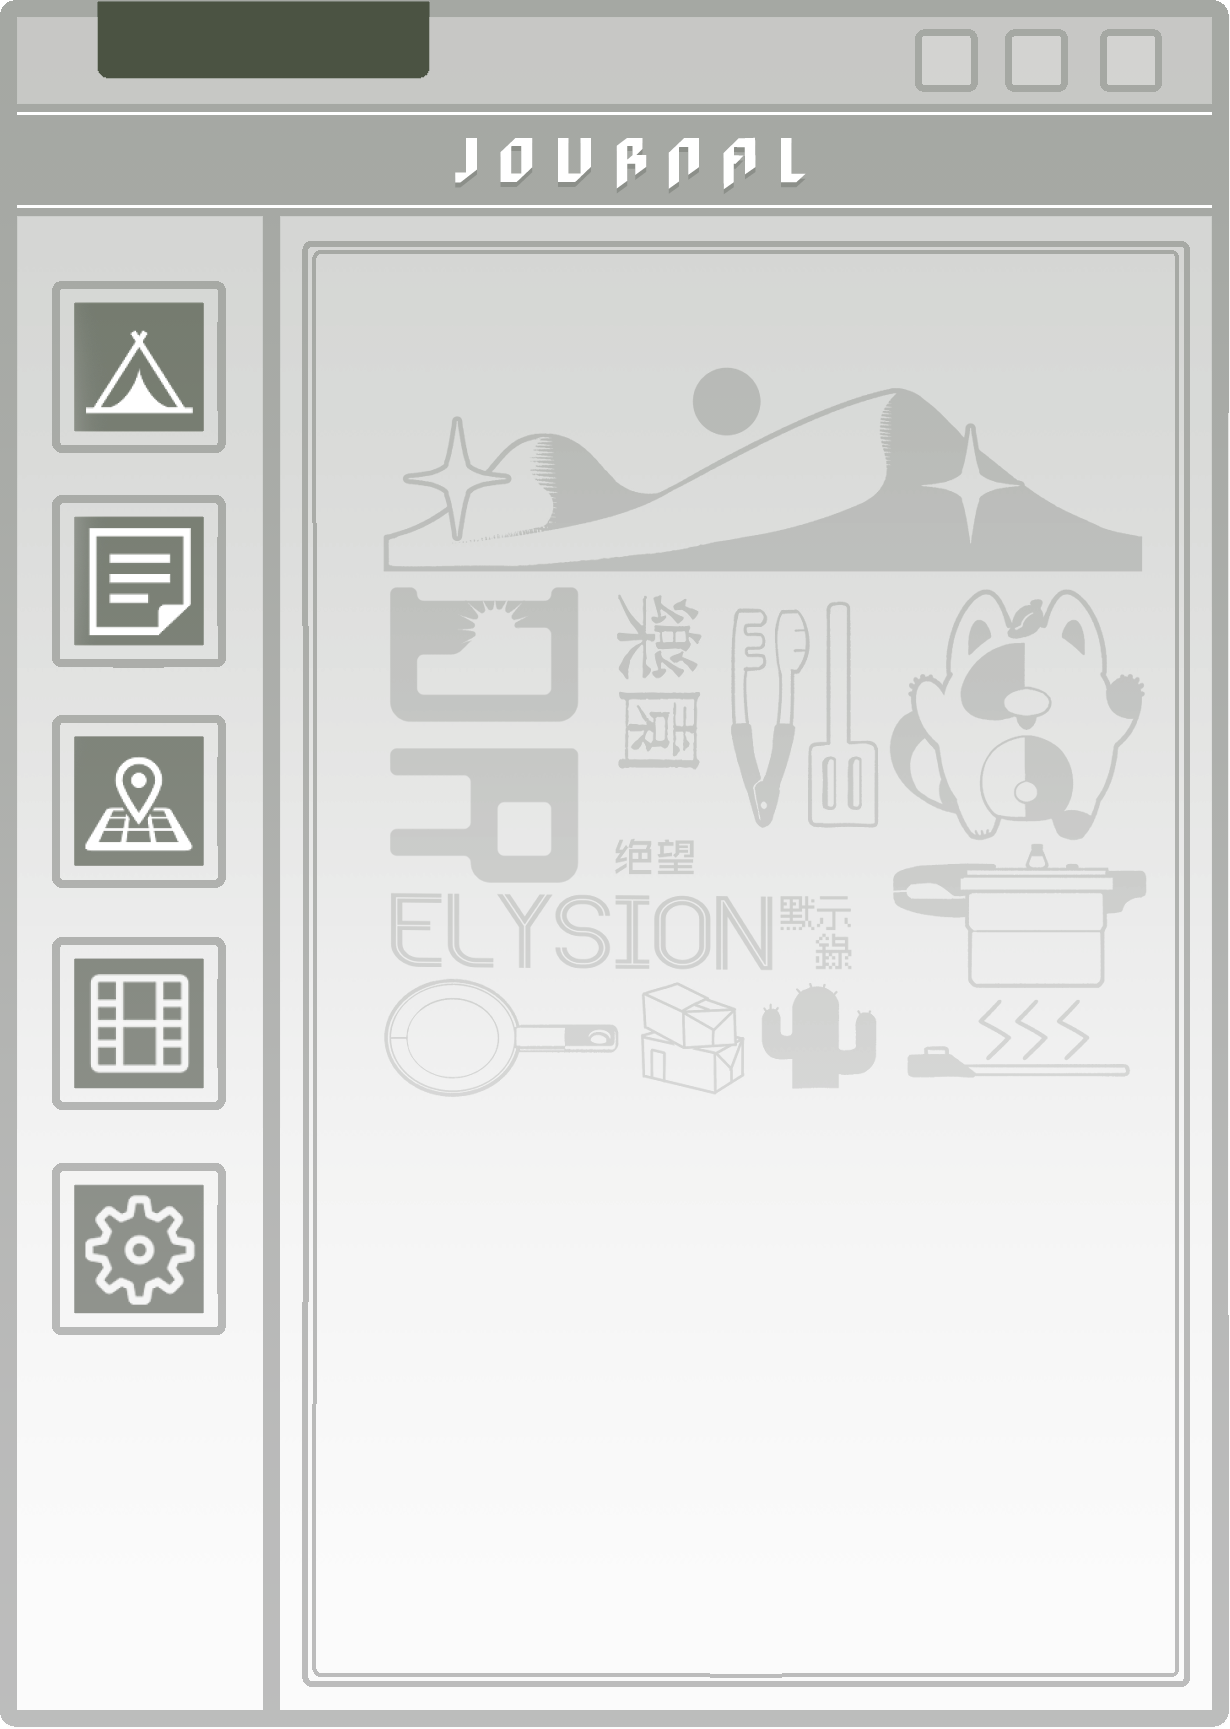
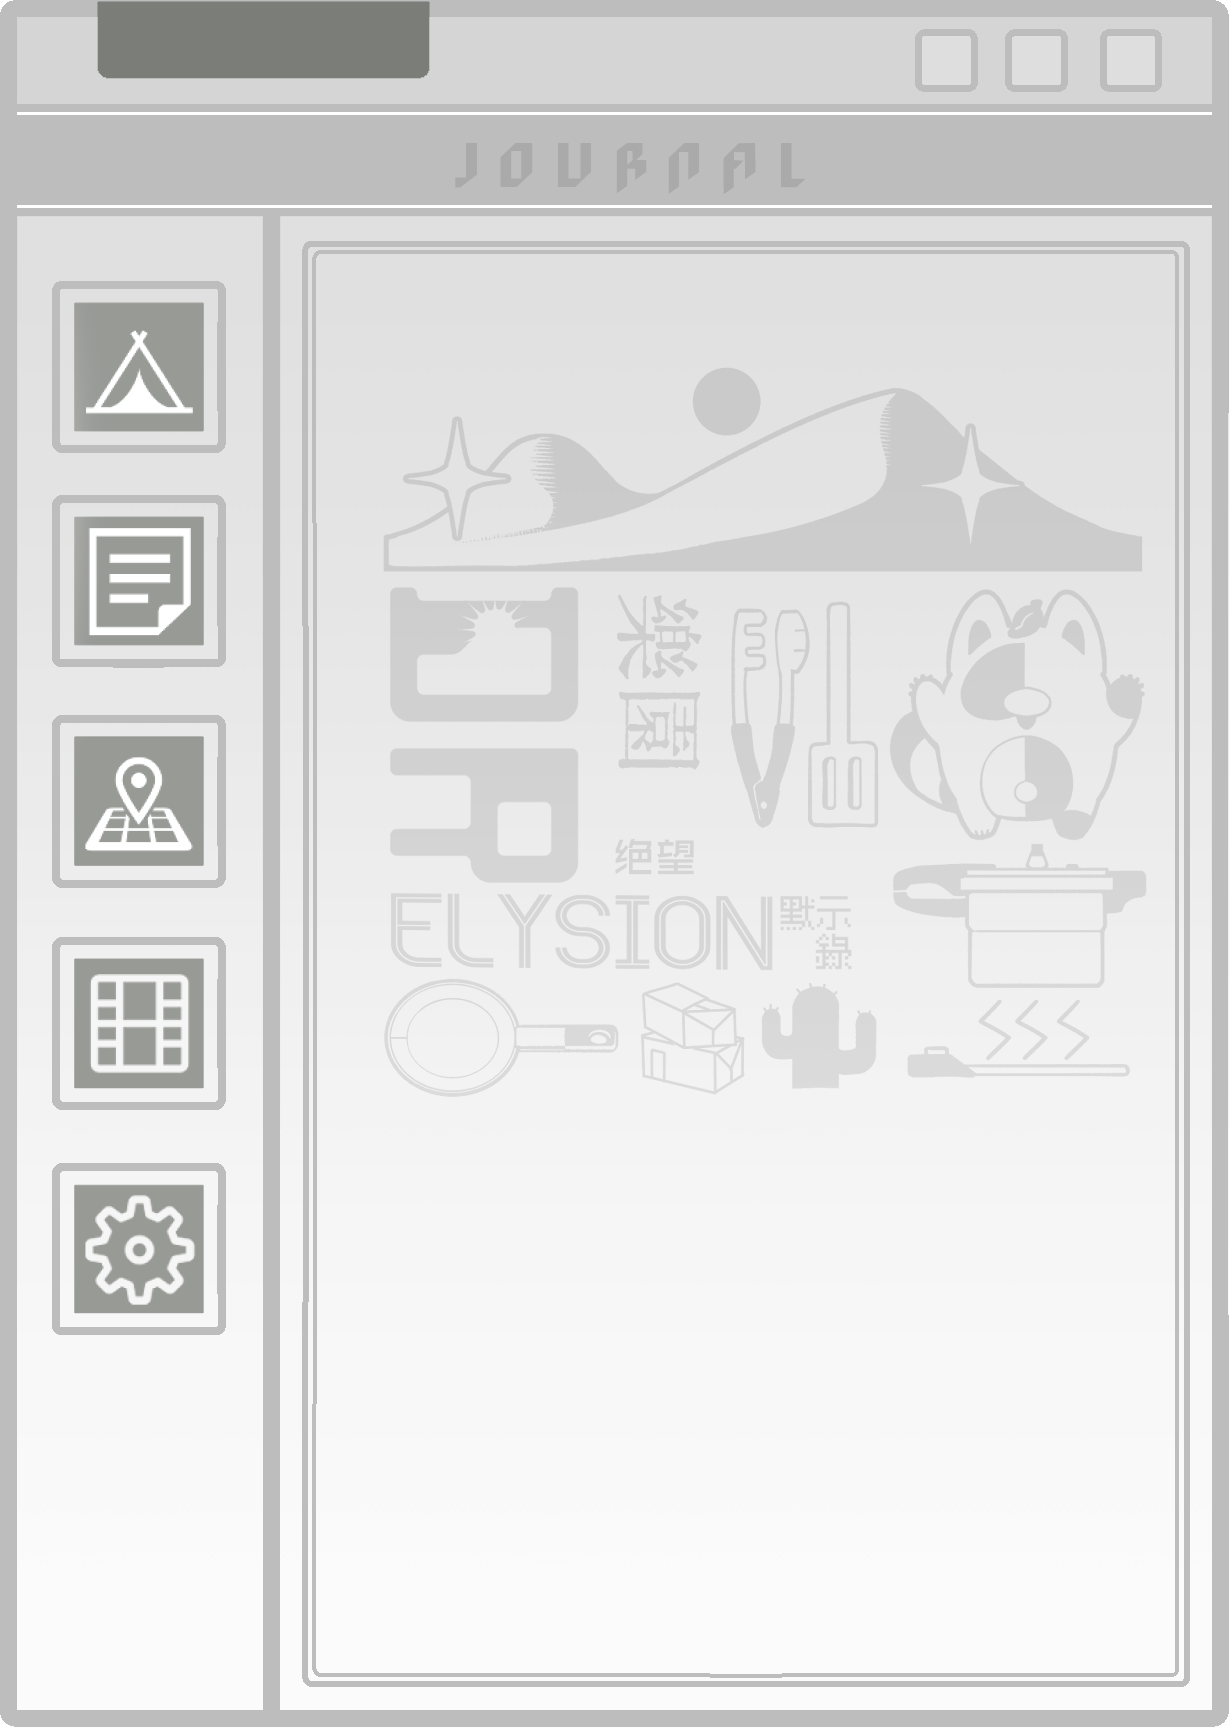
Update ch1 template

diff --git a/Journal-generator/style.css b/Journal-generator/style.css
@@ -375,7 +375,7 @@ body {
   width: 650px;
   height: 200px;
   font-family: 'ZhangHaiShanRX';
-  color: rgb(87,118,5);
+  color: rgb(236,137,108);
   font-size: 24px;
   line-height: 1.4;
   text-align: left;
